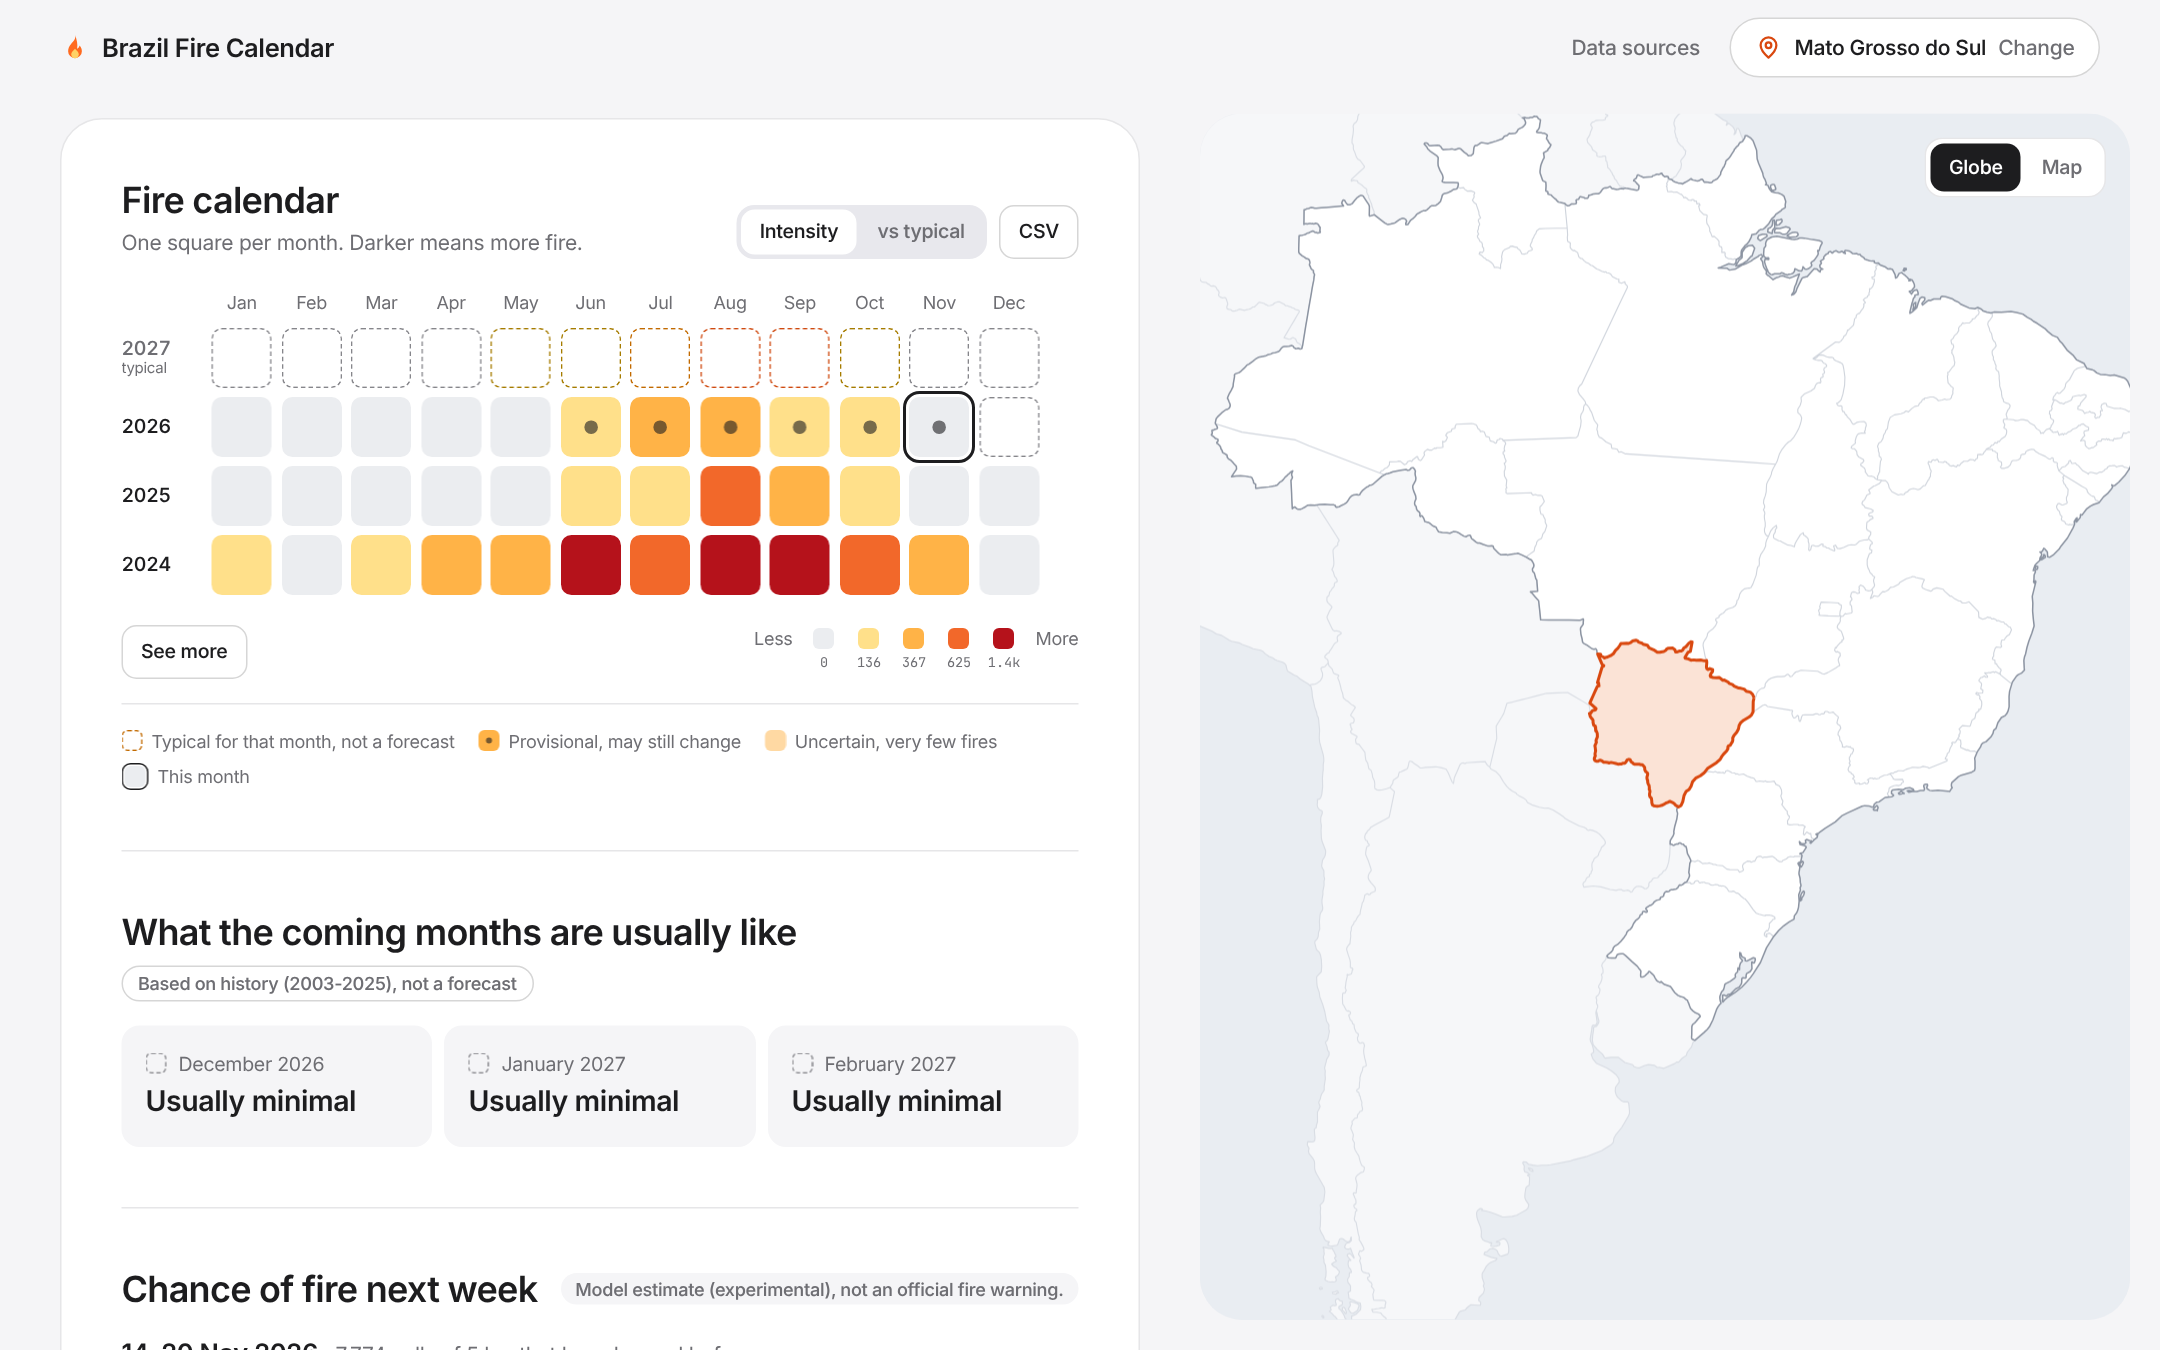
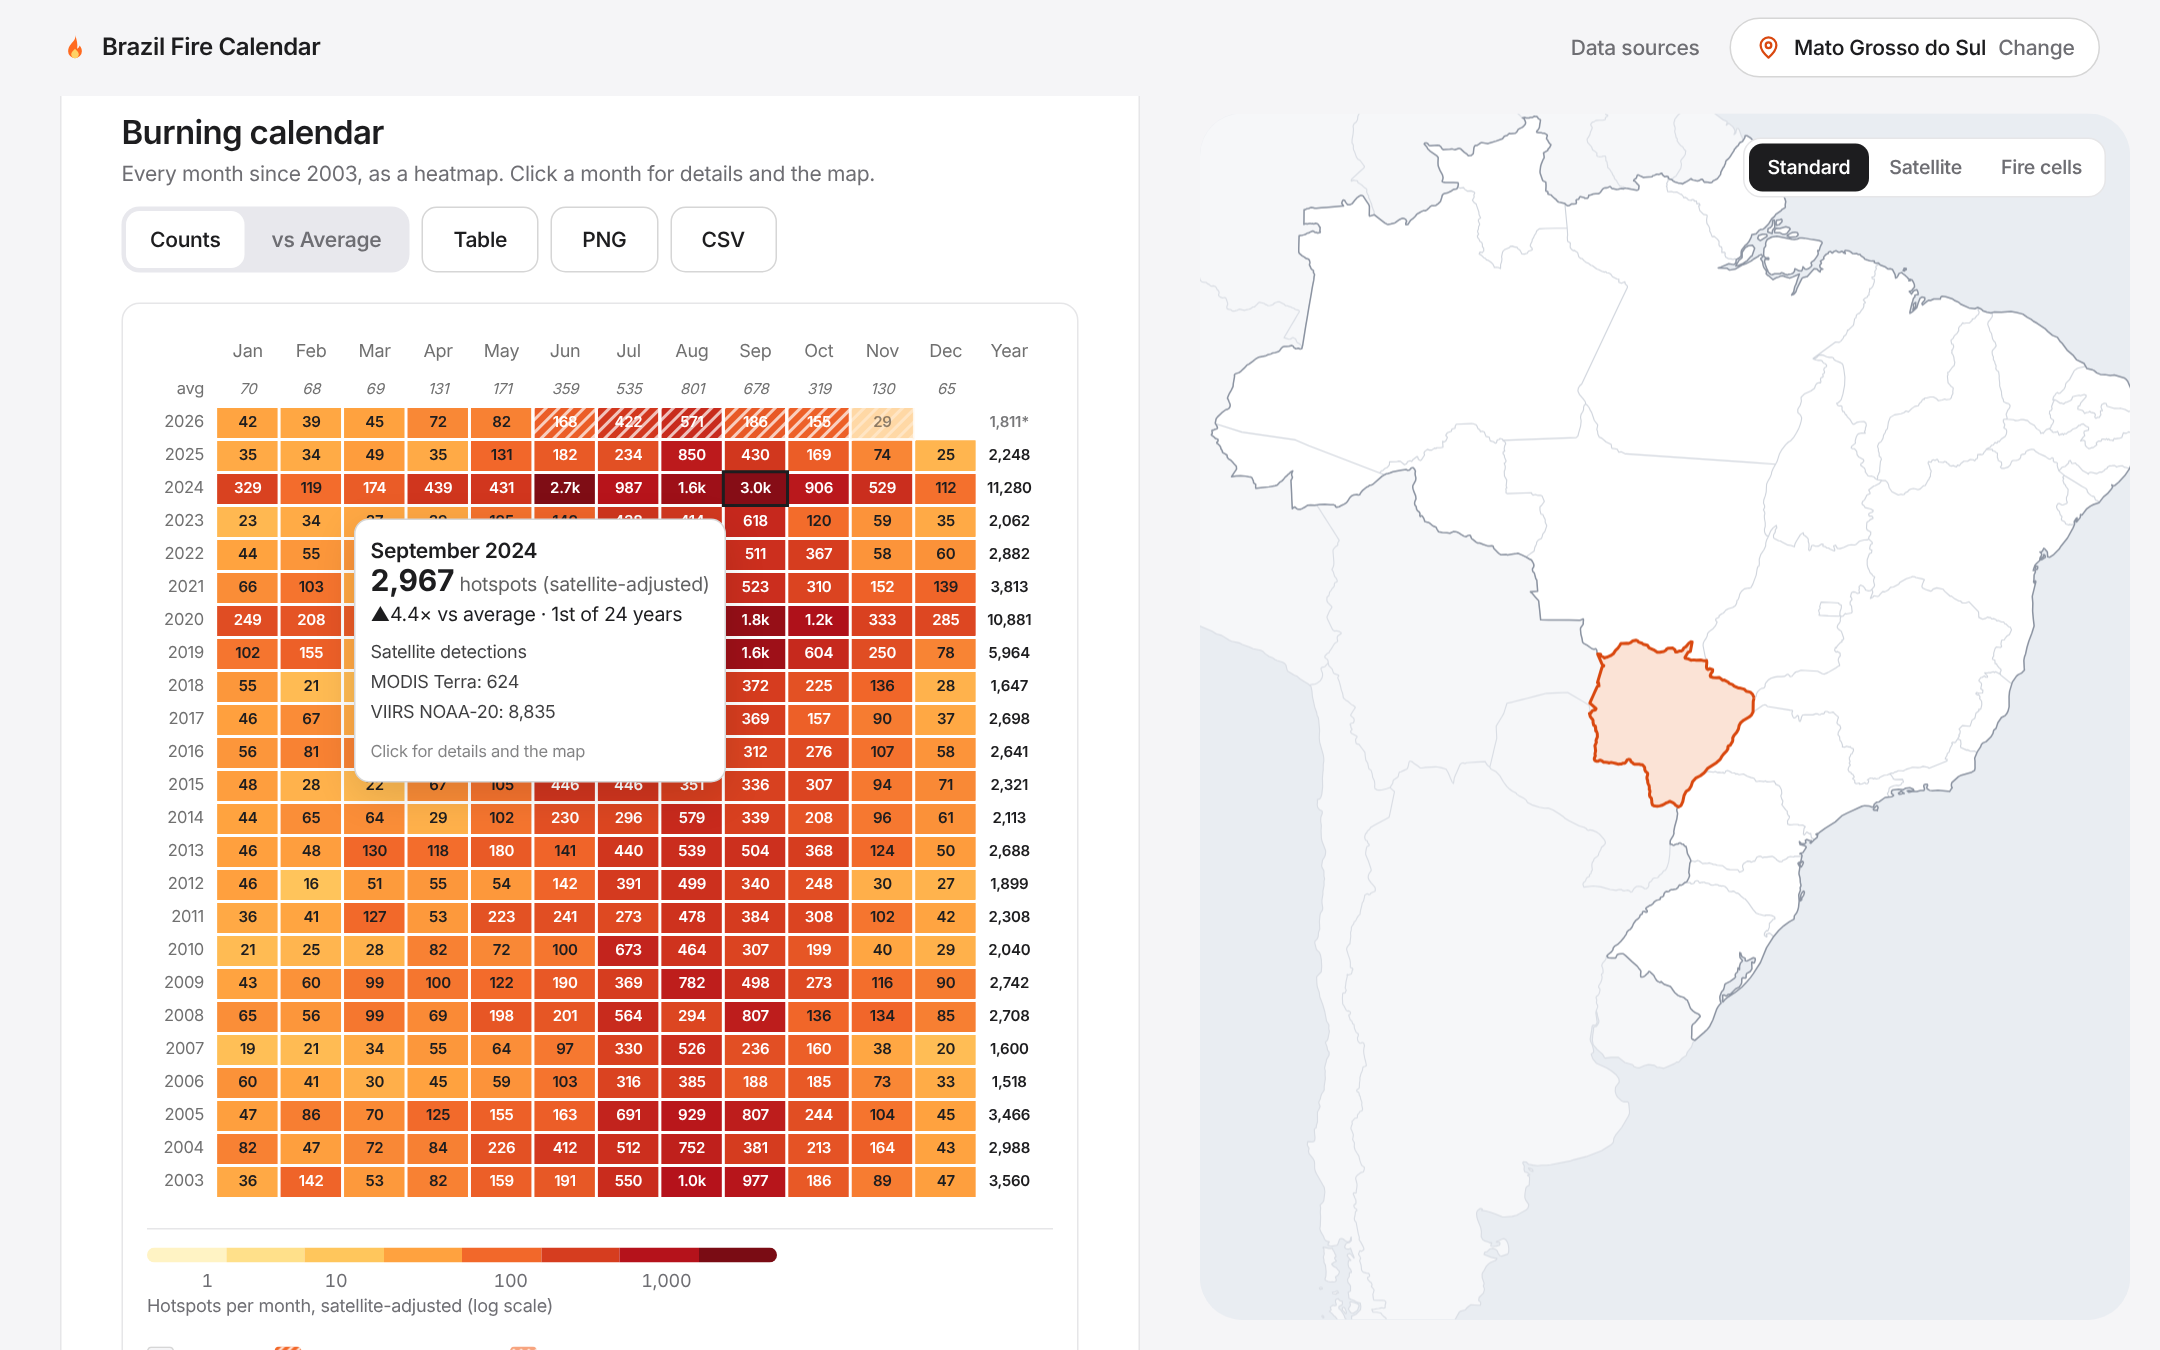
Landing: current picture of the burning calendar in Who it's for
Claude-Session: https://claude.ai/code/session_01CUsL9hK7rhq5hDYNPQwH9t

diff --git a/web/src/landing/visuals.tsx b/web/src/landing/visuals.tsx
@@ -68,7 +68,7 @@ export function RawVsCorrected({ show, record = true }: { show: Show; record?: b
   const span = years.length ? `${years[0].year} to ${years[years.length - 1].year}` : '';
   return (
     <div className="l-rc" role="img"
-      aria-label={`Detections reported per year jump when the sharper VIIRS sensor arrives in 2018${record ? '; the harmonized record stays on one scale' : ''}. ${show?.areaName ?? ''}${span && `, ${span}`}${show?.demo ? ' (demo data)' : ''}.`}>
+      aria-label={`Detections reported per year jump in 2018, when VIIRS observations from the NOAA-20 satellite begin${record ? '; the harmonized record stays on one scale' : ''}. ${show?.areaName ?? ''}${span && `, ${span}`}${show?.demo ? ' (demo data)' : ''}.`}>
       <div className="l-rc__head">
         <p>{show ? `${show.areaName}, ${span}` : ' '}</p>
         {show?.demo && <Demo />}

diff --git a/web/src/pages/Landing.tsx b/web/src/pages/Landing.tsx
@@ -301,7 +301,7 @@ export default function Landing() {
               </div>
             </div>
             <figure className="l-shot l-tool__shot">
-              <img src={shotTool} alt="The tool’s burning calendar for one area: a row per year, a coloured brick per month, next to the map." loading="lazy" width="2160" height="1350" />
+              <img src={shotTool} alt="The tool’s burning calendar for one state: a row per year since 2003, a column per month, each cell coloured and numbered by its hotspots. One month’s card is open, with its hotspots, how far above average it was, and the detections per satellite. Beside it, the state outlined on the globe." loading="lazy" width="2160" height="1350" />
             </figure>
           </div>
         </section>
